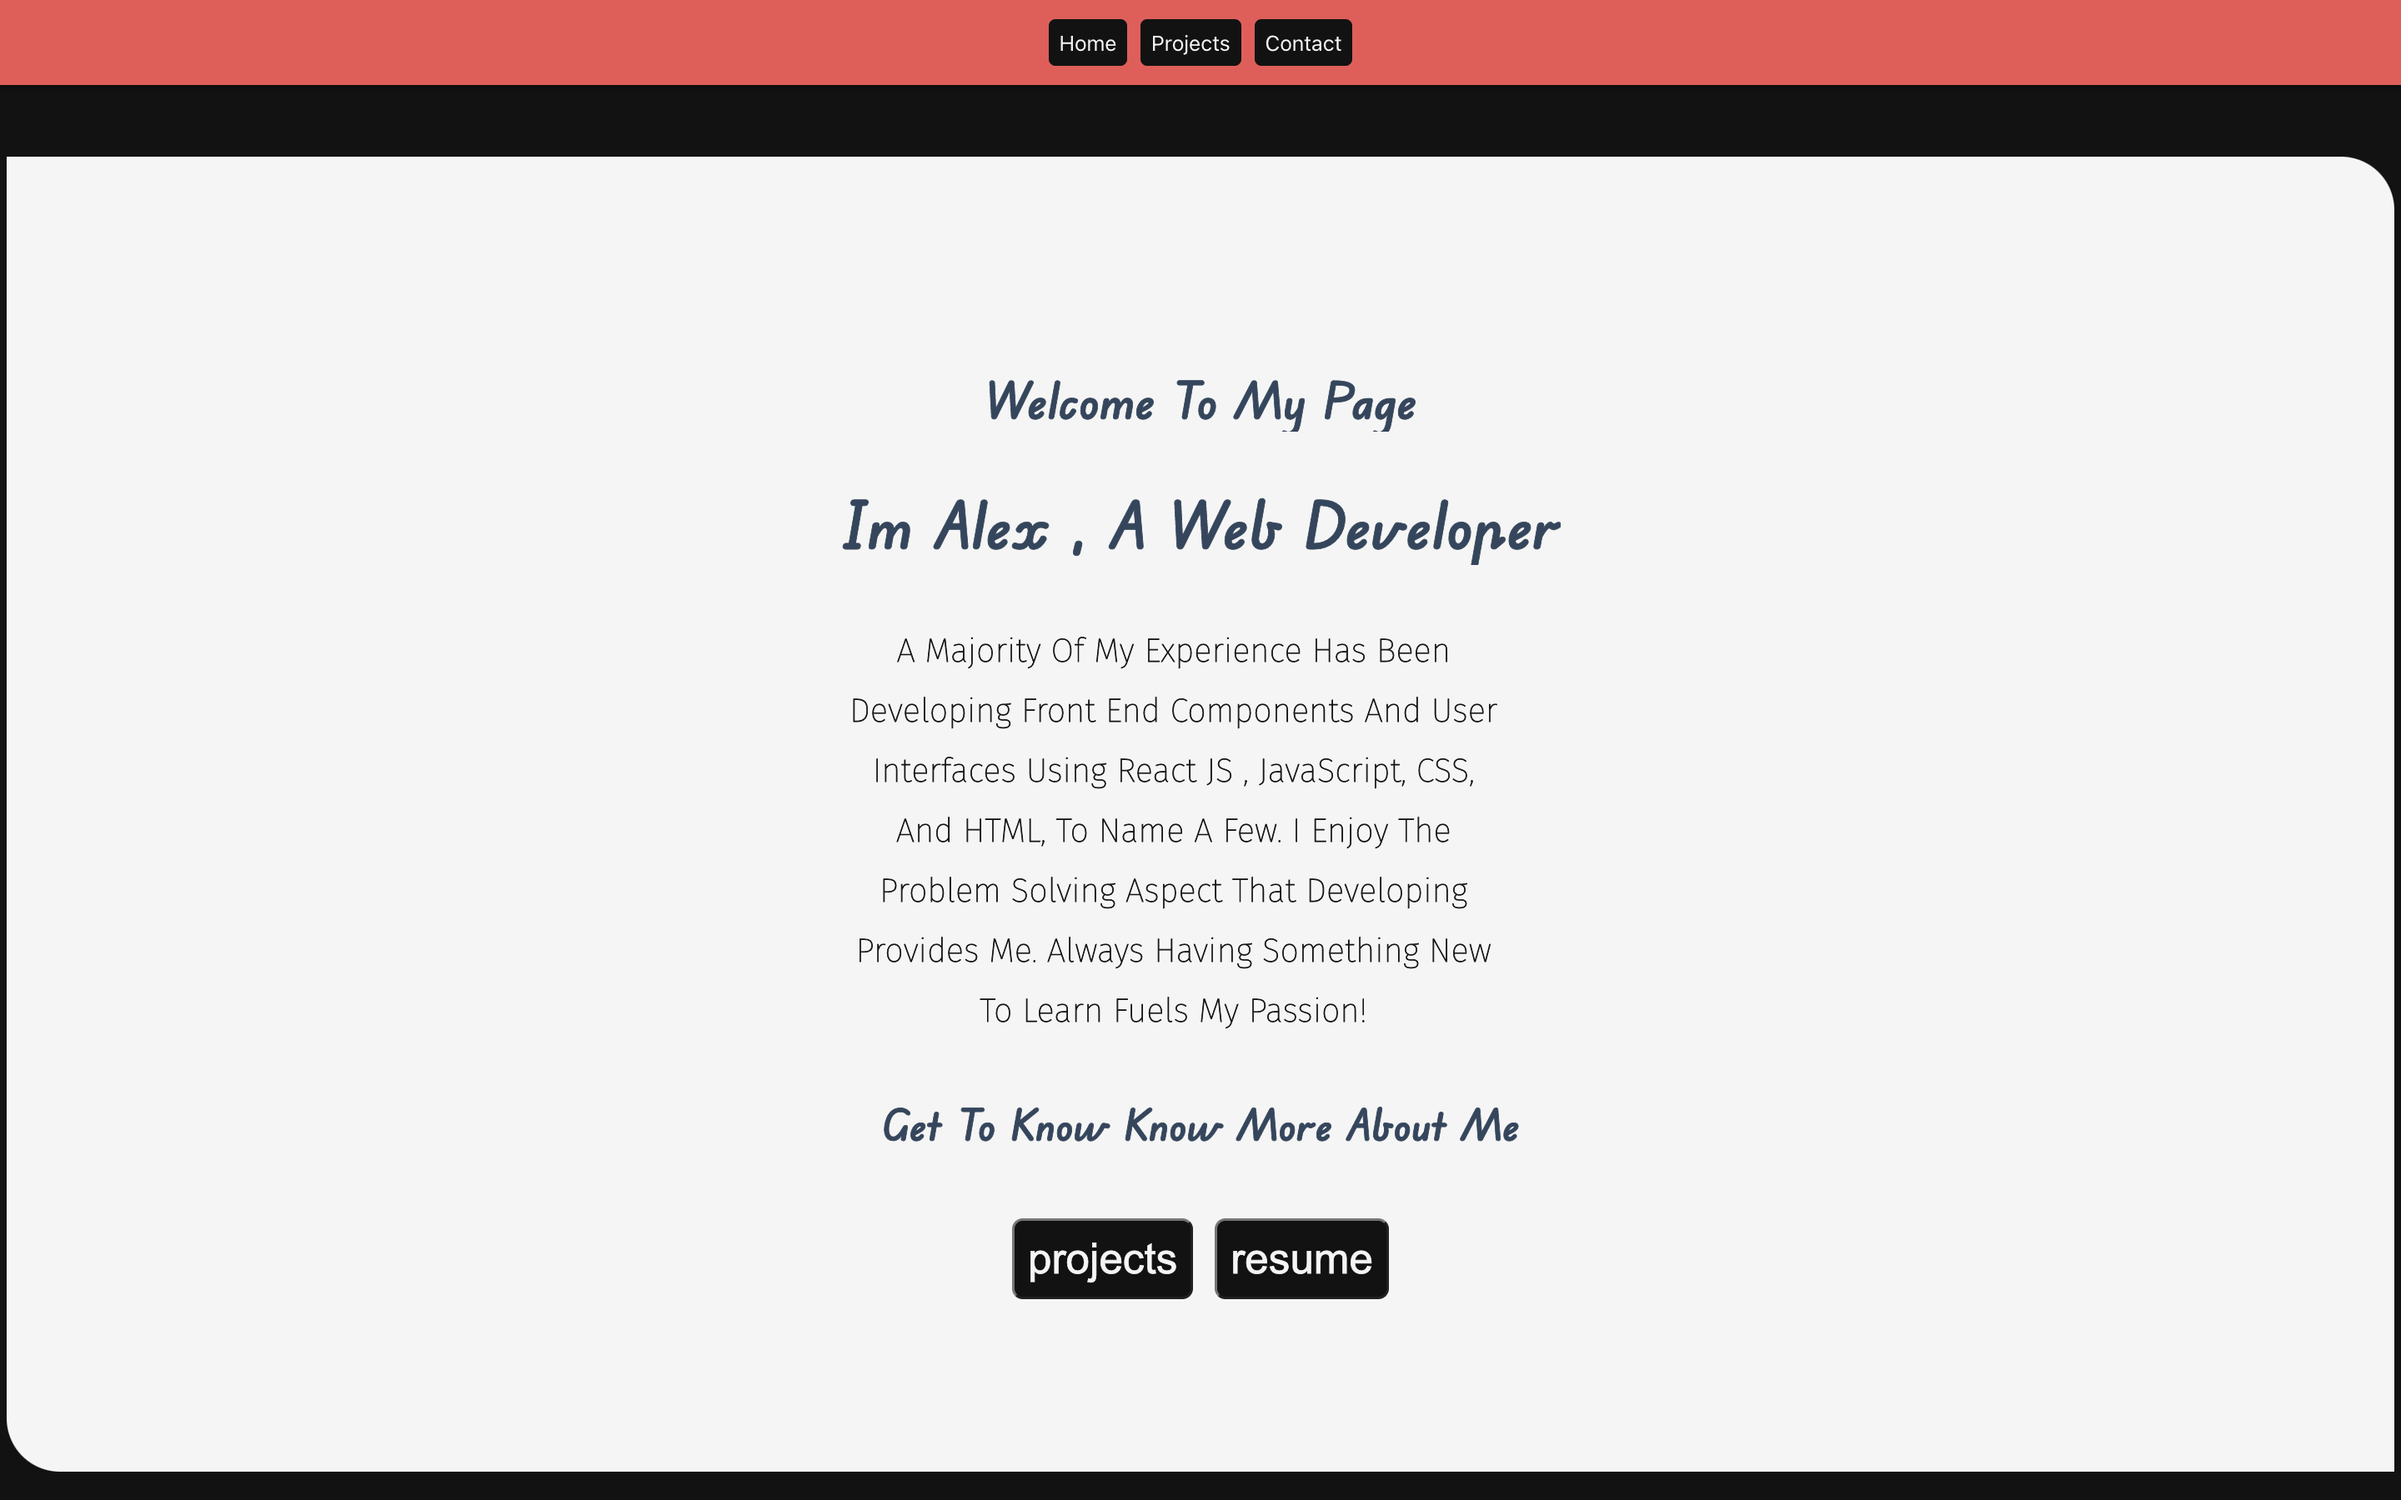
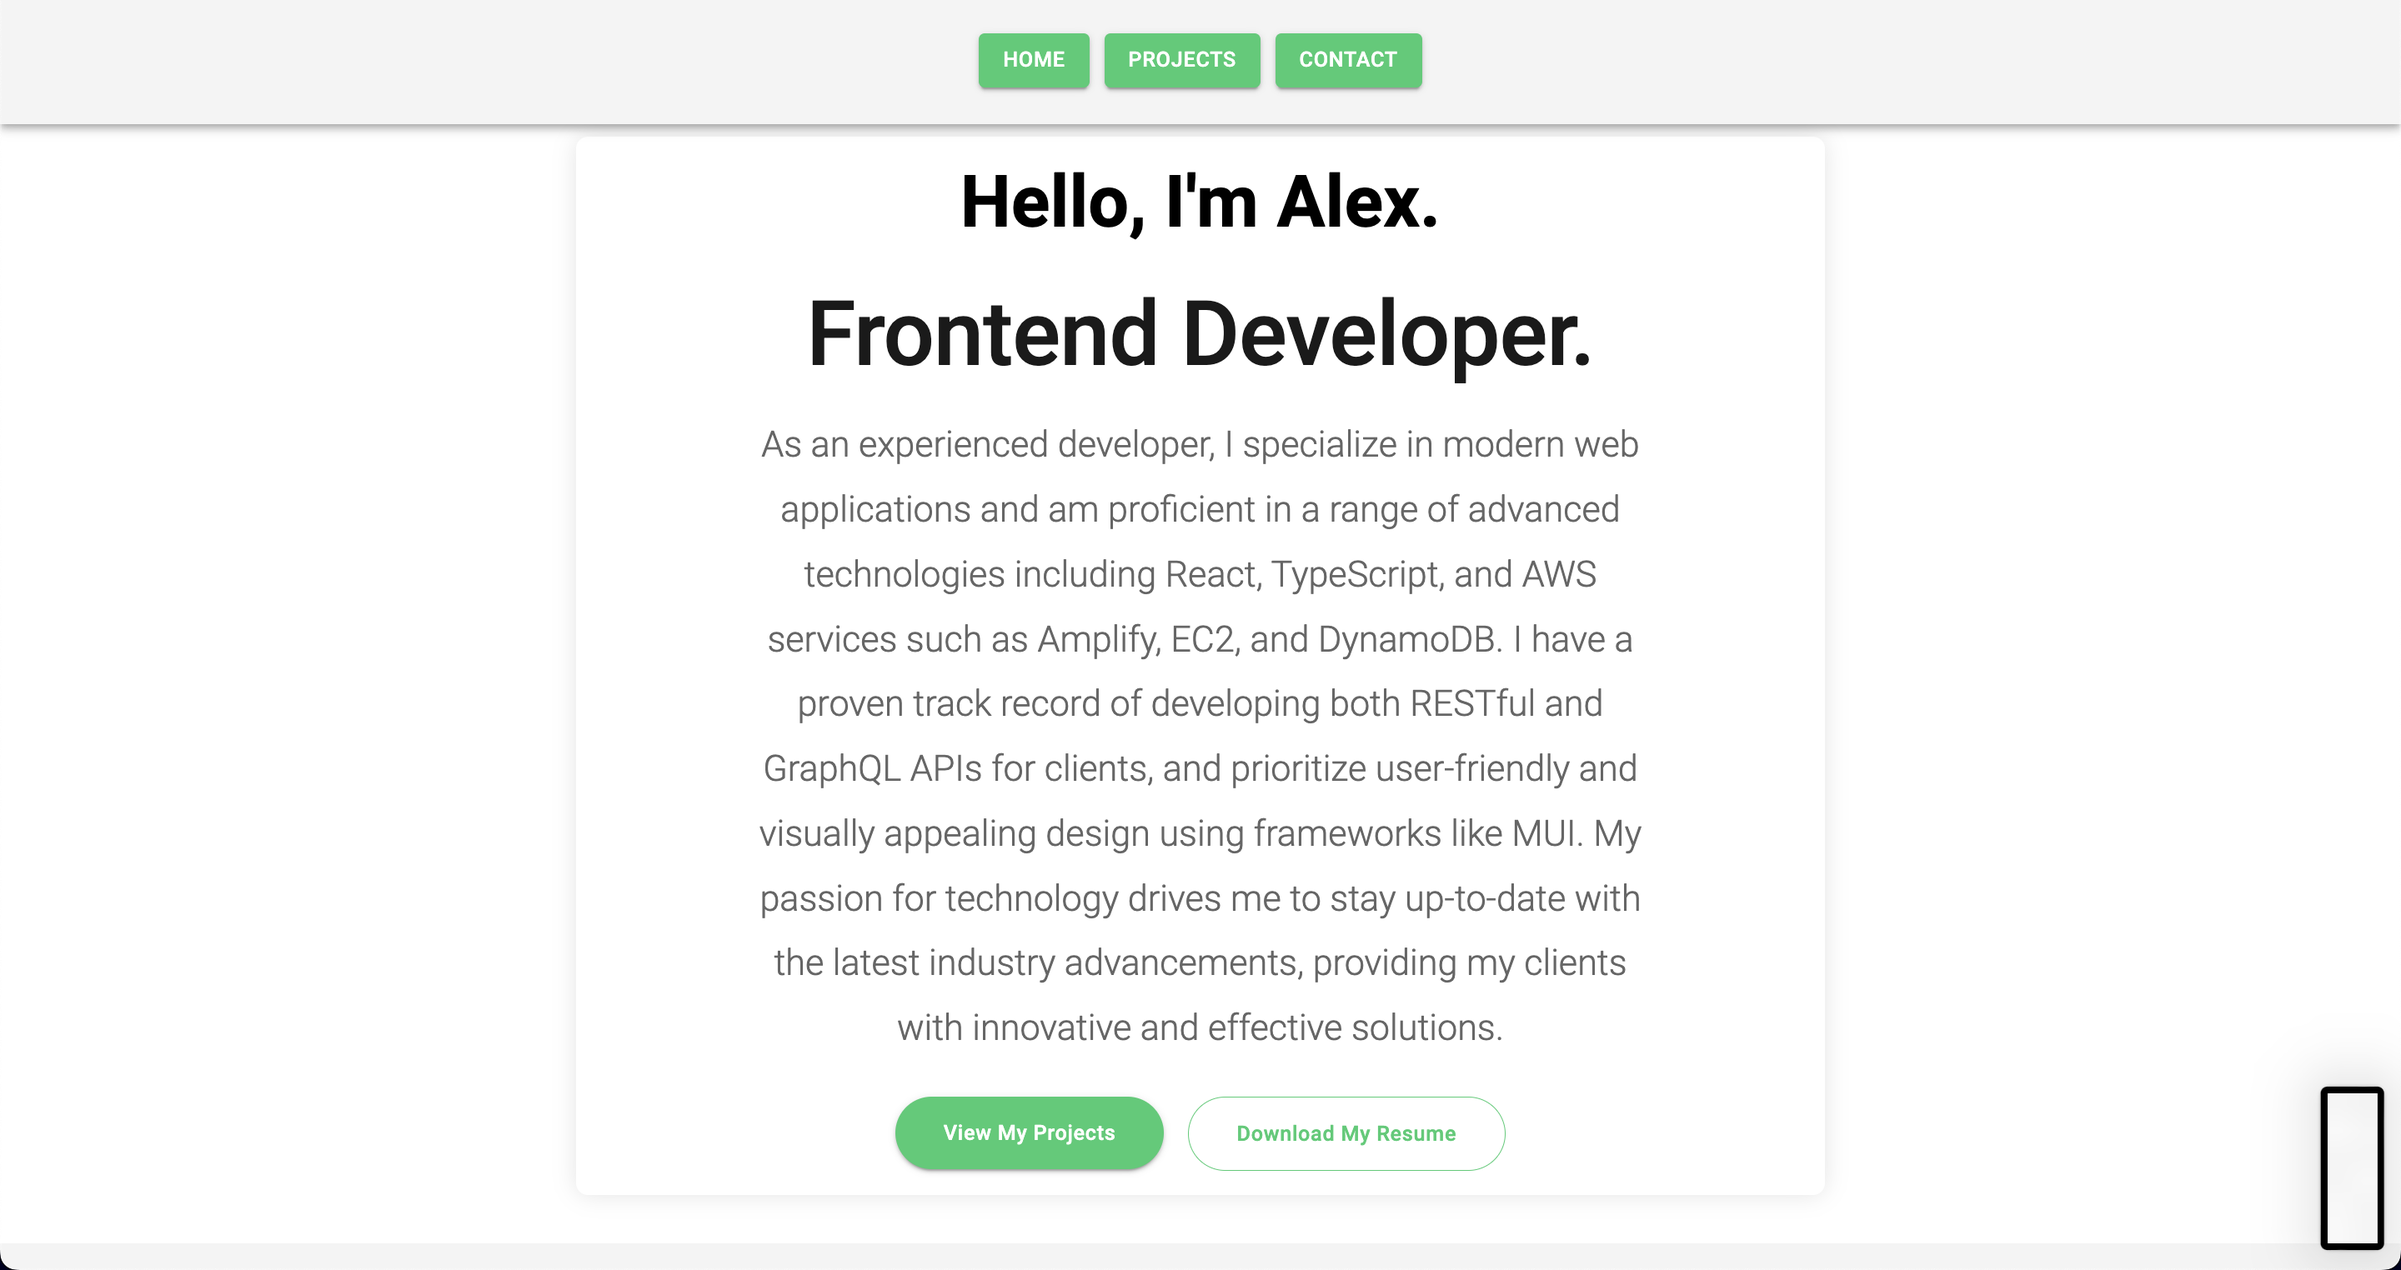
update portfolio picture

diff --git a/src/components/pages/home/WelcomeSection.js b/src/components/pages/home/WelcomeSection.js
@@ -42,13 +42,14 @@ function WelcomeSection() {
           maxWidth: "600px",
         }}
       >
-        I specialize in creating modern web applications using React,
-        TypeScript, and AWS services like Amplify, EC2, and DynamoDB. With
-        extensive experience building both RESTful APIs and GraphQL APIs, I
-        leverage frameworks like MUI to ensure a polished and user-friendly
-        experience. My passion for technology motivates me to constantly learn
-        and stay up-to-date with the latest advancements in the industry,
-        providing innovative and effective solutions for my clients.
+        As an experienced developer, I specialize in modern web applications and
+        am proficient in a range of advanced technologies including React,
+        TypeScript, and AWS services such as Amplify, EC2, and DynamoDB. I have
+        a proven track record of developing both RESTful and GraphQL APIs for
+        clients, and prioritize user-friendly and visually appealing design
+        using frameworks like MUI. My passion for technology drives me to stay
+        up-to-date with the latest industry advancements, providing my clients
+        with innovative and effective solutions.
       </Typography>
       <Grid container spacing={2} justifyContent="center">
         <Grid item>
